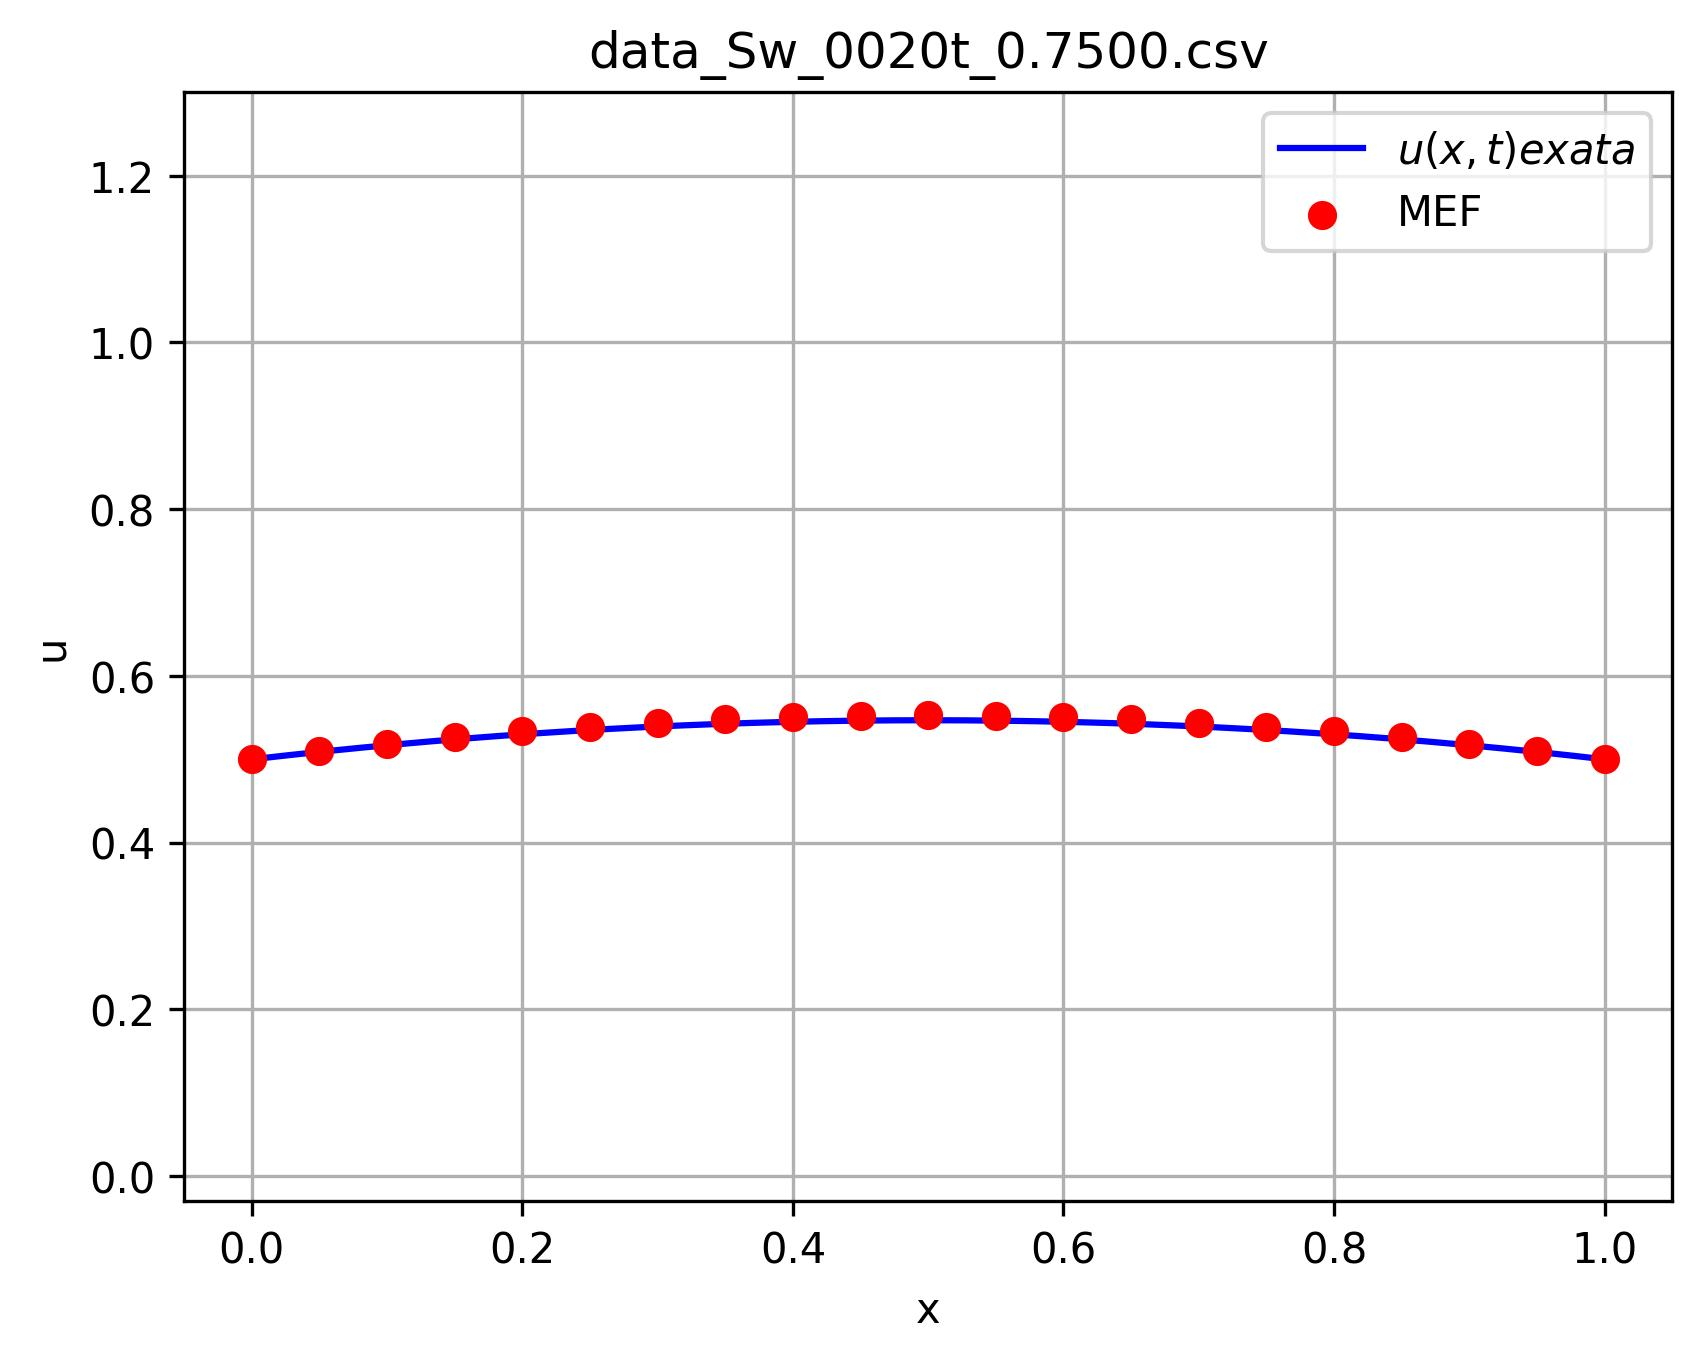
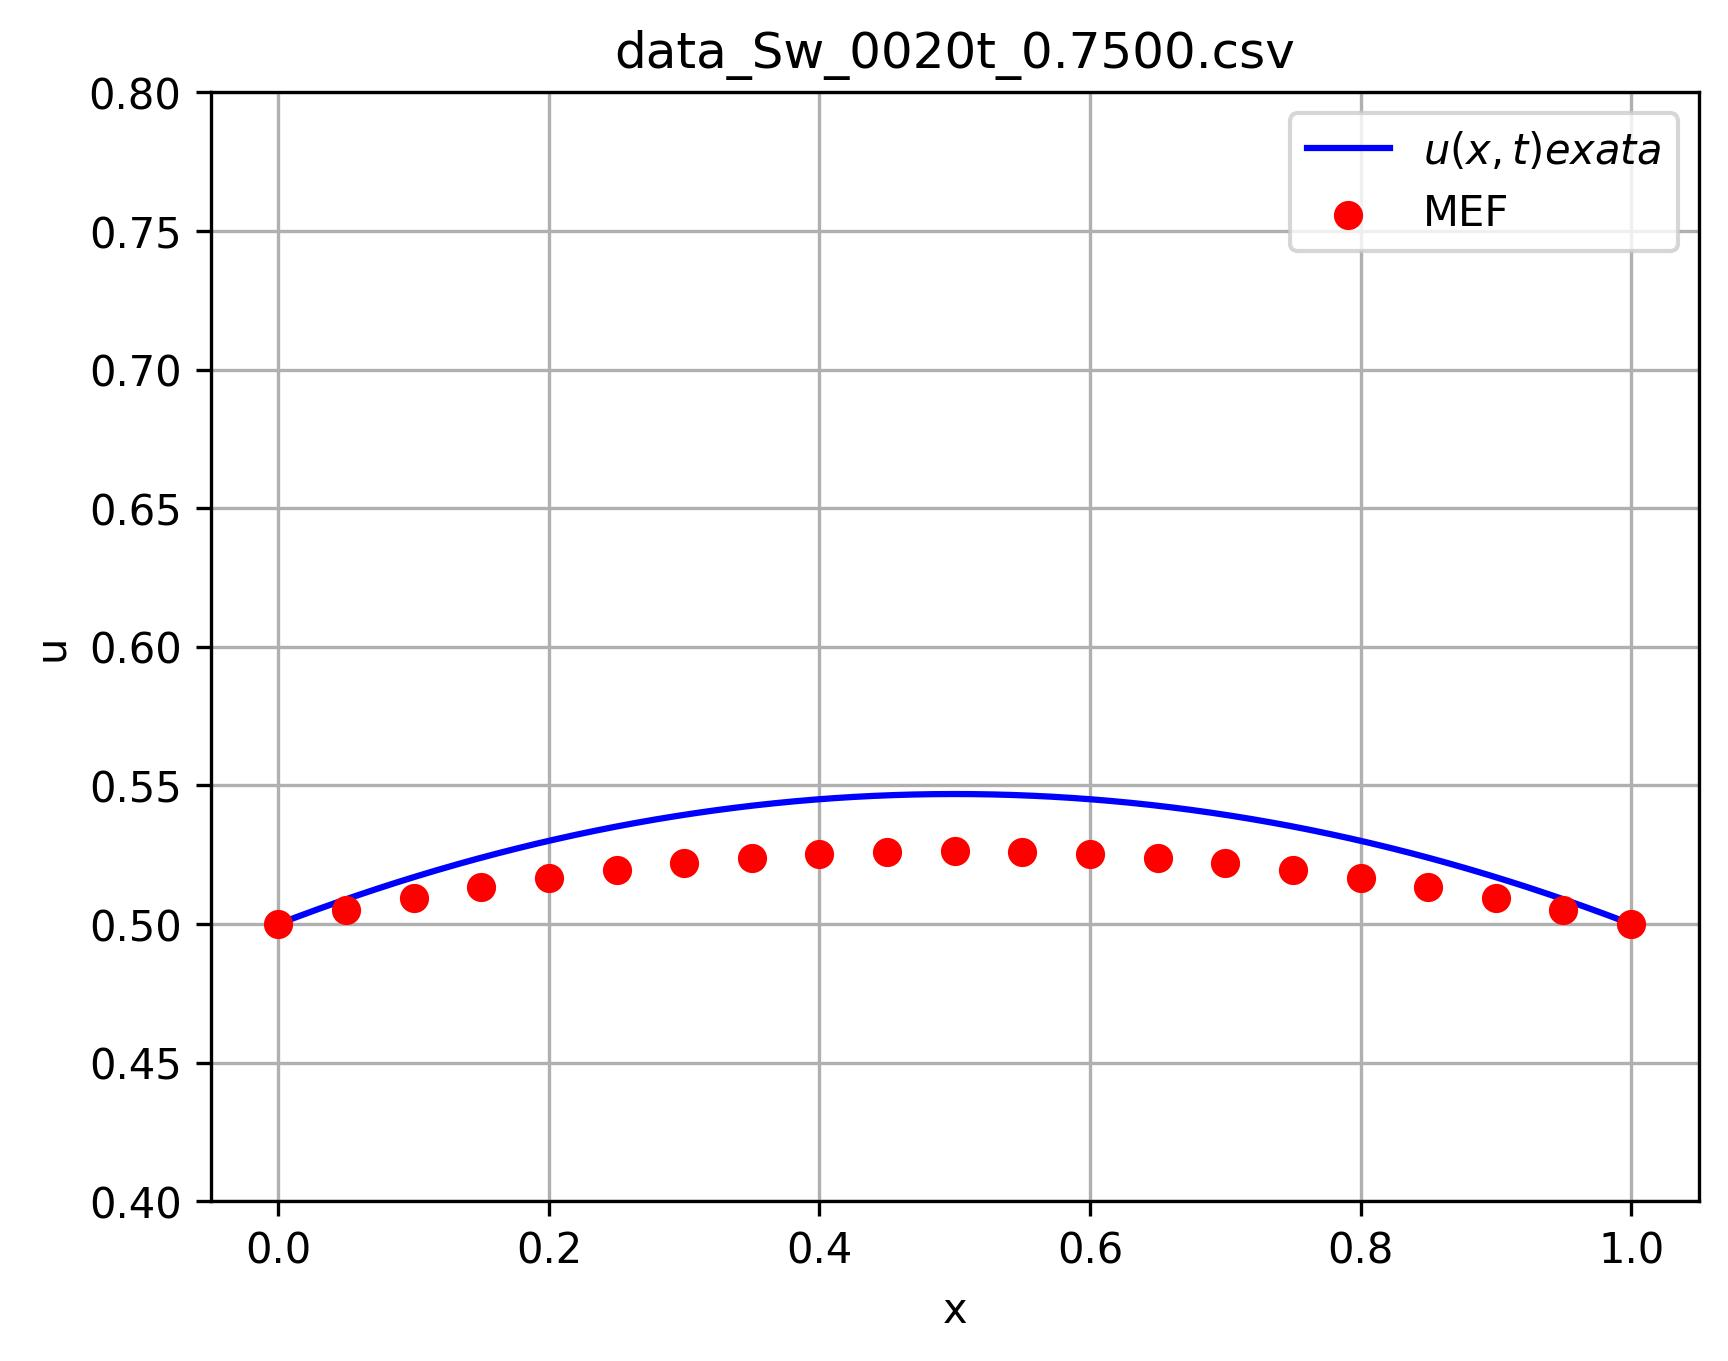
Test case 1 solved

diff --git a/testCase_1/impes.cpp b/testCase_1/impes.cpp
@@ -251,7 +251,7 @@ std::vector<double> multiplyElemWiseVectors(const std::vector<double>& vector1, 
     return result;
 }
 
-bool isMultiple(double t, double dt_save, double tolerance = 1e-4) {
+bool isMultiple(double t, double dt_save, double tolerance = 1e-6) {
     // Check if the absolute difference is within the specified tolerance
     return std::abs(t - dt_save * std::round(t / dt_save)) < tolerance;
 }
@@ -276,7 +276,7 @@ int main(){
     // problem parameters
     double rho_w = 1.0;
     double rho_n = 1.0;
-    double phi = 0.5;
+    double phi = 1.0;
 
     // mesh
     int nel = 20;
@@ -288,7 +288,7 @@ int main(){
     // time
     double t = 0.0;
     double T = 1.0;
-    double dt = 0.0001; // LESSER THAN h*h/2.0;
+    double dt = 1e-4; // LESSER THAN h*h/2.0;
     double dt_save = 0.25;
     cout << "dt = " << dt << endl;
 

diff --git a/testCase_1/post_proc_plots.py b/testCase_1/post_proc_plots.py
@@ -98,7 +98,7 @@ for i in range(len(filtered_files)):
     plt.title(file)
     plt.xlabel("x")
     plt.ylabel("u")
-    plt.ylim([-0.03, 1.3])
+    plt.ylim([0.4, 0.8])
     plt.legend()
     plt.savefig('plot'+file[:-4]+str(times[i])+'.jpeg', dpi=300, bbox_inches='tight')
     plt.close()
